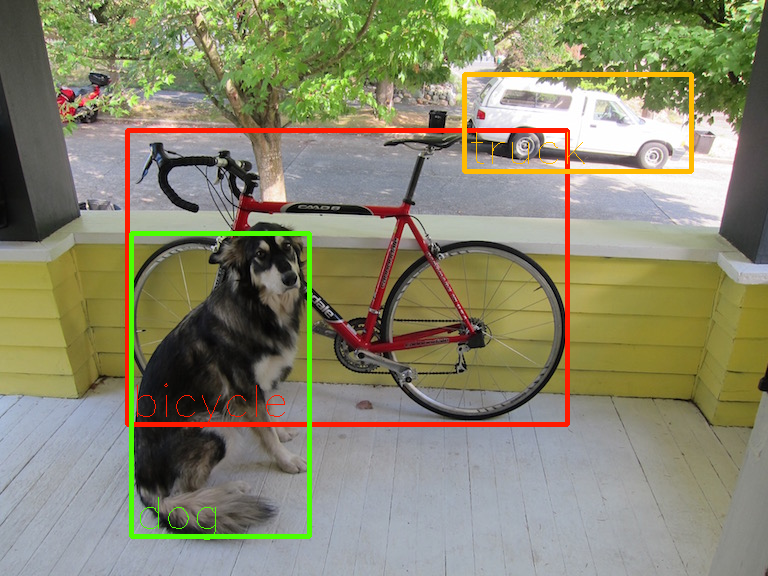
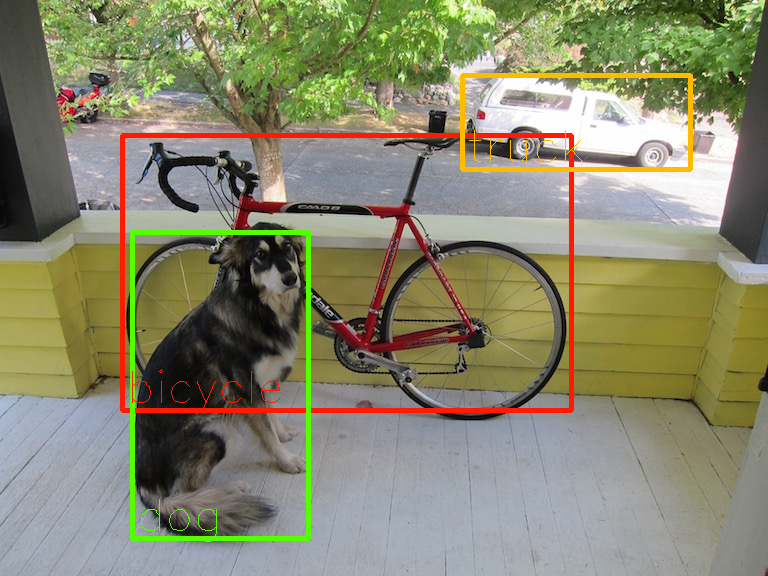
Update letterbox api

Changed region(s): [[0.1562, 0.125, 0.9062, 0.75], [0.1562, 0.875, 0.4062, 0.9375], [0.375, 0.4062, 0.4062, 0.4375]]

diff --git a/util/detector_utils.py b/util/detector_utils.py
@@ -2,6 +2,7 @@ import os
 import sys
 import numpy as np
 import cv2
+import ailia
 
 
 def preprocessing_img(img):
@@ -27,26 +28,22 @@ def hsv_to_rgb(h, s, v):
     return (int(bgr[0]), int(bgr[1]), int(bgr[2]), 255)
 
 
-def letterbox_convert(frame, height, width):
+def letterbox_convert(frame, det_shape):
     """
     Adjust the size of the frame from the webcam to the ailia input shape.
 
     Parameters
     ----------
     frame: numpy array
-    height: int
-        ailia model input height
-    width: int
-        ailia model input width
+    det_shape: tuple
+        ailia model input (height,width)
 
     Returns
     -------
-    img: numpy array
-        Image with the propotions of height and width
-        adjusted by padding for ailia model input.
     resized_img: numpy array
         Resized `img` as well as adapt the scale
     """
+    height, width = det_shape[0], det_shape[1]
     f_height, f_width = frame.shape[0], frame.shape[1]
     scale = np.max((f_height / height, f_width / width))
 
@@ -64,7 +61,33 @@ def letterbox_convert(frame, height, width):
     return resized_img
 
 
-def plot_results(detector, img, category, segm_masks=None, logging=True, det_shape = None):
+def reverse_letterbox(detections, img, det_shape):
+    h, w = img.shape[0], img.shape[1]
+
+    pad_x = pad_y = 0
+    if det_shape != None:
+        scale = np.max((h / det_shape[0], w / det_shape[1]))
+        start = (det_shape[0:2] - np.array(img.shape[0:2]) / scale) // 2
+        pad_x = start[1]*scale
+        pad_y = start[0]*scale
+    
+    new_detections = []
+    for detection in detections:
+        print(detection)
+        r = ailia.DetectorObject(
+            category=detection.category,
+            prob=detection.prob,
+            x=(detection.x*(w+pad_x*2) - pad_x)/w,
+            y=(detection.y*(h+pad_y*2) - pad_y)/h,
+            w=(detection.w*(w+pad_x*2))/w,
+            h=(detection.h*(h+pad_y*2))/h,
+        )
+        new_detections.append(r)
+    
+    return new_detections
+
+
+def plot_results(detector, img, category, segm_masks=None, logging=True):
     """
     :param detector: ailia.Detector, or list of ailia.DetectorObject
     :param img: ndarray data of image
@@ -74,13 +97,6 @@ def plot_results(detector, img, category, segm_masks=None, logging=True, det_sha
     :return:
     """
     h, w = img.shape[0], img.shape[1]
-
-    pad_x = pad_y = 0
-    if det_shape != None:
-        scale = np.max((h / det_shape[0], w / det_shape[1]))
-        start = (det_shape[0:2] - np.array(img.shape[0:2]) / scale) // 2
-        pad_x = start[1]*scale
-        pad_y = start[0]*scale
 
     count = detector.get_object_count() if hasattr(detector, 'get_object_count') else len(detector)
     if logging:
@@ -117,8 +133,8 @@ def plot_results(detector, img, category, segm_masks=None, logging=True, det_sha
     # draw bounding box
     for idx in range(count):
         obj = detector.get_object(idx) if hasattr(detector, 'get_object') else detector[idx]
-        top_left = (int((w + pad_x*2) * obj.x - pad_x), int((h + pad_y*2) * obj.y - pad_y))
-        bottom_right = (int((w + pad_x*2) * (obj.x + obj.w) - pad_x), int((h + pad_y*2) * (obj.y + obj.h) - pad_y))
+        top_left = (int(w * obj.x), int(h * obj.y))
+        bottom_right = (int(w * (obj.x + obj.w)), int(h * (obj.y + obj.h)))
 
         color = colors[idx]
         cv2.rectangle(img, top_left, bottom_right, color, 4)
@@ -126,7 +142,7 @@ def plot_results(detector, img, category, segm_masks=None, logging=True, det_sha
     # draw label
     for idx in range(count):
         obj = detector.get_object(idx) if hasattr(detector, 'get_object') else detector[idx]
-        text_position = (int((w + pad_x*2) * obj.x - pad_x) + 4, int((h + pad_y*2) * (obj.y + obj.h) - pad_y - 8))
+        text_position = (int(w * obj.x) + 4, int(h * (obj.y + obj.h) - 8))
         fontScale = w / 512.0
 
         color = colors[idx]

diff --git a/object_detection/yolov4-tiny/yolov4-tiny.py b/object_detection/yolov4-tiny/yolov4-tiny.py
@@ -10,7 +10,7 @@ import ailia
 sys.path.append('../../util')
 from utils import get_base_parser, update_parser  # noqa: E402
 from model_utils import check_and_download_models  # noqa: E402
-from detector_utils import plot_results, load_image, letterbox_convert  # noqa: E402
+from detector_utils import plot_results, load_image, letterbox_convert, reverse_letterbox  # noqa: E402
 import webcamera_utils  # noqa: E402
 
 from yolov4_tiny_utils import post_processing  # noqa: E402
@@ -61,17 +61,17 @@ parser.add_argument(
 )
 parser.add_argument(
     '-dw', '--detection_width', metavar='DETECTION_WIDTH',
-    default=416, choices=DETECTION_SIZE_LISTS, type=int,
+    default=DETECTION_SIZE_LISTS[0], choices=DETECTION_SIZE_LISTS, type=int,
     help='detection size lists: ' + ' | '.join(map(str,DETECTION_SIZE_LISTS))
 )
 parser.add_argument(
     '-dh', '--detection_height', metavar='DETECTION_HEIGHT',
-    default=416, choices=DETECTION_SIZE_LISTS, type=int,
+    default=DETECTION_SIZE_LISTS[0], choices=DETECTION_SIZE_LISTS, type=int,
     help='detection size lists: ' + ' | '.join(map(str,DETECTION_SIZE_LISTS))
 )
 args = update_parser(parser)
 
-if args.detection_width != 416 or args.detection_height!=416:
+if args.detection_width != DETECTION_SIZE_LISTS[0] or args.detection_height!=DETECTION_SIZE_LISTS[0]:
     WEIGHT_PATH = 'yolov4-tiny_'+str(args.detection_width)+'_'+str(args.detection_height)+'.onnx'
     MODEL_PATH = 'yolov4-tiny_'+str(args.detection_width)+'_'+str(args.detection_height)+'.onnx.prototxt'
     IMAGE_HEIGHT = args.detection_height
@@ -91,7 +91,7 @@ def recognize_from_image(detector):
     print(f'input image shape: {org_img.shape}')
 
     org_img = cv2.cvtColor(org_img, cv2.COLOR_BGRA2BGR)
-    img = letterbox_convert(org_img, IMAGE_HEIGHT, IMAGE_WIDTH)
+    img = letterbox_convert(org_img, (IMAGE_HEIGHT, IMAGE_WIDTH))
 
     img = cv2.cvtColor(img, cv2.COLOR_BGR2RGB)
     img = np.transpose(img, [2, 0, 1])
@@ -110,9 +110,10 @@ def recognize_from_image(detector):
     else:
         output = detector.predict([img])
     detect_object = post_processing(img, args.threshold, args.iou, output)
+    detect_object = reverse_letterbox(detect_object[0], org_img, (IMAGE_HEIGHT,IMAGE_WIDTH))
 
     # plot result
-    res_img = plot_results(detect_object[0], org_img, COCO_CATEGORY, det_shape=(IMAGE_HEIGHT,IMAGE_WIDTH))
+    res_img = plot_results(detect_object, org_img, COCO_CATEGORY)
 
     # plot result
     cv2.imwrite(args.savepath, res_img)
@@ -135,7 +136,7 @@ def recognize_from_video(detector):
         if (cv2.waitKey(1) & 0xFF == ord('q')) or not ret:
             break
 
-        img = letterbox_convert(frame, IMAGE_HEIGHT, IMAGE_WIDTH)
+        img = letterbox_convert(frame, (IMAGE_HEIGHT, IMAGE_WIDTH))
 
         img = cv2.cvtColor(img, cv2.COLOR_BGR2RGB)
         img = np.transpose(img, [2, 0, 1])
@@ -146,7 +147,8 @@ def recognize_from_video(detector):
         detect_object = post_processing(
             img, args.threshold, args.iou, output
         )
-        res_img = plot_results(detect_object[0], frame, COCO_CATEGORY, det_shape=(IMAGE_HEIGHT,IMAGE_WIDTH))
+        detect_object = reverse_letterbox(detect_object[0], frame, (IMAGE_HEIGHT,IMAGE_WIDTH))
+        res_img = plot_results(detect_object, frame, COCO_CATEGORY)
 
         cv2.imshow('frame', res_img)
         # save results

diff --git a/object_detection/yolov5/yolov5.py b/object_detection/yolov5/yolov5.py
@@ -10,7 +10,7 @@ import ailia
 sys.path.append('../../util')
 from utils import get_base_parser, update_parser  # noqa: E402
 from model_utils import check_and_download_models  # noqa: E402
-from detector_utils import plot_results, load_image, letterbox_convert  # noqa: E402
+from detector_utils import plot_results, load_image, letterbox_convert, reverse_letterbox  # noqa: E402
 import webcamera_utils  # noqa: E402
 
 import yolov5_utils  # noqa: E402
@@ -70,17 +70,17 @@ parser.add_argument(
 )
 parser.add_argument(
     '-dw', '--detection_width', metavar='DETECTION_WIDTH',
-    default=640, choices=DETECTION_SIZE_LISTS, type=int,
+    default=DETECTION_SIZE_LISTS[0], choices=DETECTION_SIZE_LISTS, type=int,
     help='detection size lists: ' + ' | '.join(map(str,DETECTION_SIZE_LISTS))
 )
 parser.add_argument(
     '-dh', '--detection_height', metavar='DETECTION_HEIGHT',
-    default=640, choices=DETECTION_SIZE_LISTS, type=int,
+    default=DETECTION_SIZE_LISTS[0], choices=DETECTION_SIZE_LISTS, type=int,
     help='detection size lists: ' + ' | '.join(map(str,DETECTION_SIZE_LISTS))
 )
 args = update_parser(parser)
 
-if args.detection_width != 640 or args.detection_height != 640:
+if args.detection_width != DETECTION_SIZE_LISTS[0] or args.detection_height != DETECTION_SIZE_LISTS[0]:
     WEIGHT_PATH = args.arch+'_'+str(args.detection_width)+'_'+str(args.detection_height)+'.onnx'
     MODEL_PATH = args.arch+'_'+str(args.detection_width)+'_'+str(args.detection_height)+'.onnx.prototxt'
     IMAGE_HEIGHT = args.detection_height
@@ -100,7 +100,7 @@ def recognize_from_image():
     org_img = cv2.cvtColor(org_img, cv2.COLOR_BGRA2BGR)
     print(f'input image shape: {org_img.shape}')
 
-    img = letterbox_convert(org_img, IMAGE_HEIGHT, IMAGE_WIDTH)
+    img = letterbox_convert(org_img, (IMAGE_HEIGHT, IMAGE_WIDTH))
 
     img = cv2.cvtColor(img, cv2.COLOR_BGR2RGB)
     img = np.transpose(img, [2, 0, 1])
@@ -122,9 +122,10 @@ def recognize_from_image():
     else:
         output = detector.predict([img])
     detect_object = yolov5_utils.post_processing(img, args.threshold, args.iou, output)
+    detect_object = reverse_letterbox(detect_object[0], org_img, (IMAGE_HEIGHT,IMAGE_WIDTH))
 
     # plot result
-    res_img = plot_results(detect_object[0], org_img, COCO_CATEGORY, det_shape=(IMAGE_HEIGHT,IMAGE_WIDTH))
+    res_img = plot_results(detect_object, org_img, COCO_CATEGORY)
 
     # plot result
     cv2.imwrite(args.savepath, res_img)
@@ -151,7 +152,7 @@ def recognize_from_video():
         if (cv2.waitKey(1) & 0xFF == ord('q')) or not ret:
             break
         
-        img = letterbox_convert(frame, IMAGE_HEIGHT, IMAGE_WIDTH)
+        img = letterbox_convert(frame, (IMAGE_HEIGHT, IMAGE_WIDTH))
 
         img = cv2.cvtColor(img, cv2.COLOR_BGR2RGB)
         img = np.transpose(img, [2, 0, 1])
@@ -162,7 +163,9 @@ def recognize_from_video():
         detect_object = yolov5_utils.post_processing(
             img, args.threshold, args.iou, output
         )
-        res_img = plot_results(detect_object[0], frame, COCO_CATEGORY, det_shape=(IMAGE_HEIGHT,IMAGE_WIDTH))
+        detect_object = reverse_letterbox(detect_object[0], frame, (IMAGE_HEIGHT,IMAGE_WIDTH))
+
+        res_img = plot_results(detect_object, frame, COCO_CATEGORY)
 
         cv2.imshow('frame', res_img)
 

diff --git a/object_detection/yolov4/yolov4.py b/object_detection/yolov4/yolov4.py
@@ -10,7 +10,7 @@ import ailia
 sys.path.append('../../util')
 from utils import get_base_parser, update_parser  # noqa: E402
 from model_utils import check_and_download_models  # noqa: E402
-from detector_utils import plot_results, load_image, letterbox_convert  # noqa: E402
+from detector_utils import plot_results, load_image, letterbox_convert, reverse_letterbox  # noqa: E402
 import webcamera_utils  # noqa: E402
 
 import yolov4_utils  # noqa: E402
@@ -63,17 +63,17 @@ parser.add_argument(
 )
 parser.add_argument(
     '-dw', '--detection_width', metavar='DETECTION_WIDTH',
-    default=416, choices=DETECTION_SIZE_LISTS, type=int,
+    default=DETECTION_SIZE_LISTS[0], choices=DETECTION_SIZE_LISTS, type=int,
     help='detection size lists: ' + ' | '.join(map(str,DETECTION_SIZE_LISTS))
 )
 parser.add_argument(
     '-dh', '--detection_height', metavar='DETECTION_HEIGHT',
-    default=416, choices=DETECTION_SIZE_LISTS, type=int,
+    default=DETECTION_SIZE_LISTS[0], choices=DETECTION_SIZE_LISTS, type=int,
     help='detection size lists: ' + ' | '.join(map(str,DETECTION_SIZE_LISTS))
 )
 args = update_parser(parser)
 
-if args.detection_width != 416 or args.detection_height!=416:
+if args.detection_width != DETECTION_SIZE_LISTS[0] or args.detection_height!=DETECTION_SIZE_LISTS[0]:
     WEIGHT_PATH = 'yolov4_'+str(args.detection_width)+'_'+str(args.detection_height)+'.onnx'
     MODEL_PATH = 'yolov4_'+str(args.detection_width)+'_'+str(args.detection_height)+'.onnx.prototxt'
     IMAGE_HEIGHT = args.detection_height
@@ -93,7 +93,7 @@ def recognize_from_image():
     org_img = cv2.cvtColor(org_img, cv2.COLOR_BGRA2BGR)
     print(f'input image shape: {org_img.shape}')
 
-    img = letterbox_convert(org_img, IMAGE_HEIGHT, IMAGE_WIDTH)
+    img = letterbox_convert(org_img, (IMAGE_HEIGHT, IMAGE_WIDTH))
 
     img = cv2.cvtColor(img, cv2.COLOR_BGR2RGB)
     img = np.transpose(img, [2, 0, 1])
@@ -115,9 +115,10 @@ def recognize_from_image():
     else:
         output = detector.predict([img])
     detect_object = yolov4_utils.post_processing(img, args.threshold, args.iou, output)
+    detect_object = reverse_letterbox(detect_object[0], org_img, (IMAGE_HEIGHT,IMAGE_WIDTH))
 
     # plot result
-    res_img = plot_results(detect_object[0], org_img, COCO_CATEGORY, det_shape=(IMAGE_HEIGHT,IMAGE_WIDTH))
+    res_img = plot_results(detect_object, org_img, COCO_CATEGORY)
 
     # plot result
     cv2.imwrite(args.savepath, res_img)
@@ -144,7 +145,7 @@ def recognize_from_video():
         if (cv2.waitKey(1) & 0xFF == ord('q')) or not ret:
             break
 
-        img = letterbox_convert(frame, IMAGE_HEIGHT, IMAGE_WIDTH)
+        img = letterbox_convert(frame, (IMAGE_HEIGHT, IMAGE_WIDTH))
 
         img = cv2.cvtColor(img, cv2.COLOR_BGR2RGB)
         img = np.transpose(img, [2, 0, 1])
@@ -155,7 +156,8 @@ def recognize_from_video():
         detect_object = yolov4_utils.post_processing(
             img, args.threshold, args.iou, output
         )
-        res_img = plot_results(detect_object[0], frame, COCO_CATEGORY, det_shape=(IMAGE_HEIGHT,IMAGE_WIDTH))
+        detect_object = reverse_letterbox(detect_object[0], frame, (IMAGE_HEIGHT,IMAGE_WIDTH))
+        res_img = plot_results(detect_object, frame, COCO_CATEGORY)
 
         cv2.imshow('frame', res_img)
 
